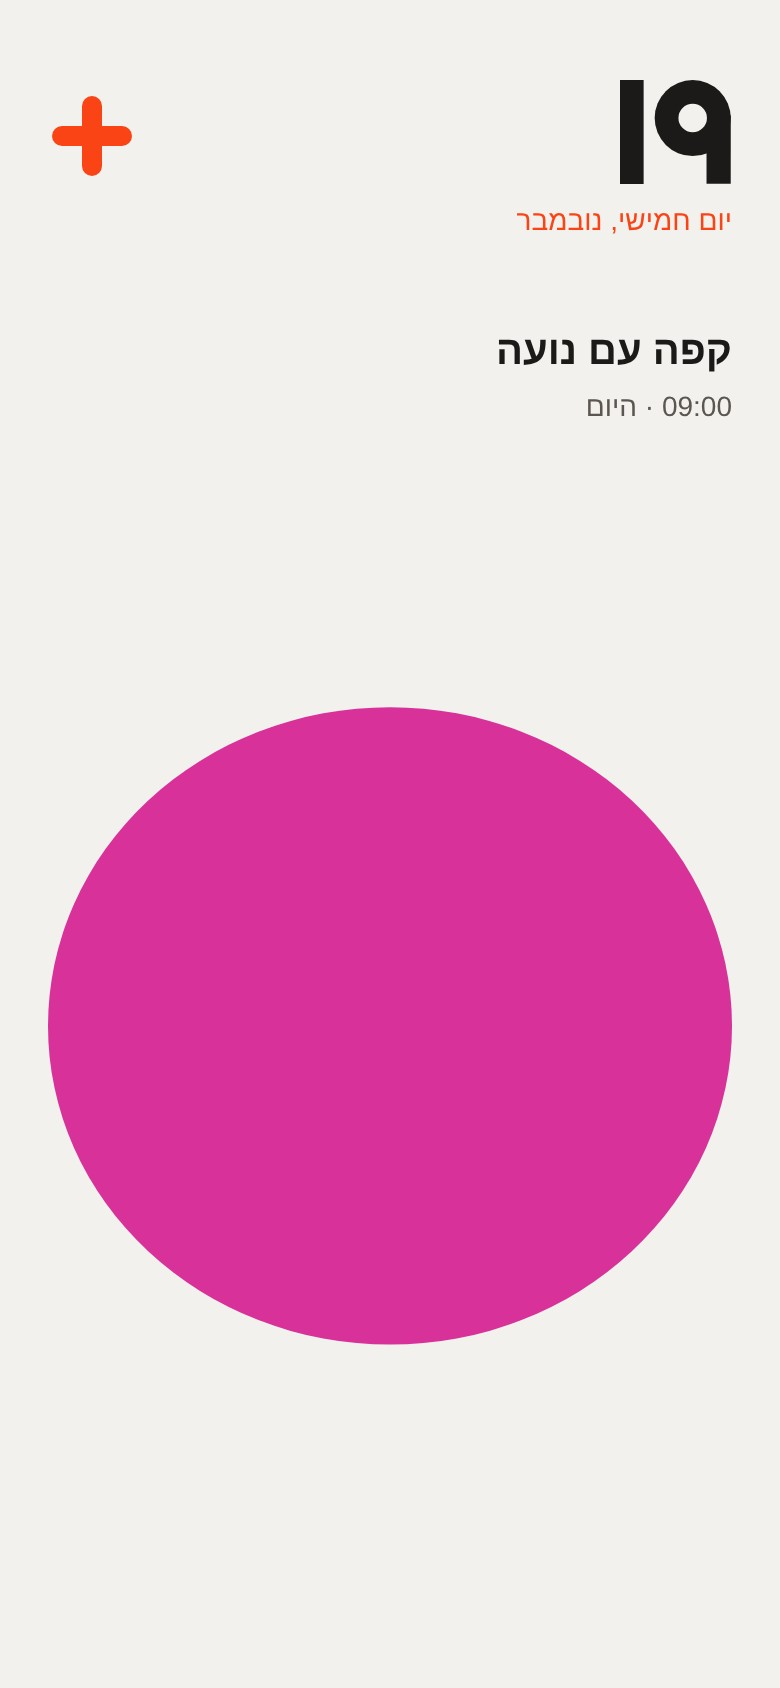
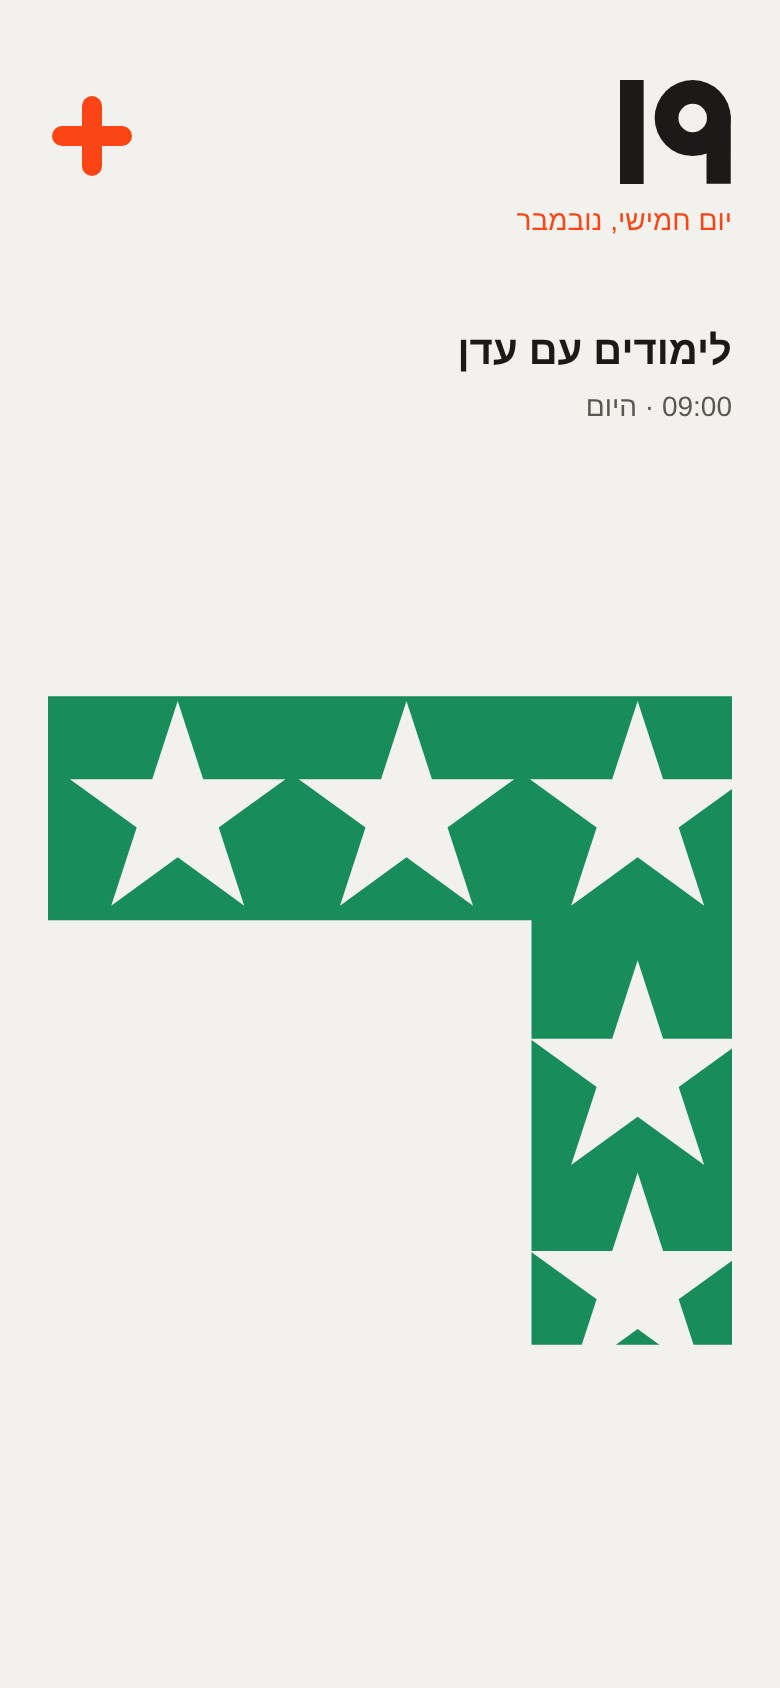
Landing: poster fills on scroll then FORM Club card, minimal hero, clear teaser controls, uncropped screens with several months, three hanging posters
Claude-Session: https://claude.ai/code/session_01QdzEEqAdDpQnYavPUwSomg

diff --git a/landing/index.html b/landing/index.html
@@ -26,16 +26,25 @@ nav .wrap{display:flex;align-items:center;justify-content:space-between;height:1
 .btn:hover{transform:translateY(-1px)}.btn:active{transform:scale(.97)}
 .btn.or{background:var(--orange)}.btn.ghost{background:transparent;color:var(--ink);box-shadow:inset 0 0 0 1.5px var(--ink)}
 .btn.sm{height:40px;padding:0 20px;font-size:14px}
-/* hero */
-.hero{height:calc(100vh - var(--nav));min-height:640px;max-height:1000px}
-.hero .wrap{height:100%;display:grid;grid-template-columns:minmax(0,1fr) auto;gap:72px;align-items:center}
-.kicker{color:var(--orange);font-size:18px;font-weight:700;margin:0 0 20px}
+/* hero = poster that fills while scrolling */
+.fill{height:340vh;position:relative}
+.stick{position:sticky;top:var(--nav);height:calc(100vh - var(--nav));min-height:620px}
+.stick .wrap{height:100%;display:grid;grid-template-columns:minmax(0,1fr) auto;gap:72px;align-items:center}
+.slot{position:relative;height:250px;margin-top:46px}
+.slot>*{position:absolute;right:0;top:0;transition:opacity .45s,transform .55s cubic-bezier(.2,.8,.2,1)}
+.slot .off{opacity:0;transform:translateY(18px);pointer-events:none}
+.cue{position:absolute;left:50%;bottom:-44px;transform:translateX(-50%);display:flex;align-items:center;gap:8px;color:var(--muted);font-size:15px;white-space:nowrap;transition:opacity .3s}
+.cue i{display:block;width:2px;height:22px;background:var(--muted);border-radius:1px;animation:cue 1.6s ease-in-out infinite}
+@keyframes cue{0%,100%{transform:translateY(-4px);opacity:.4}50%{transform:translateY(4px);opacity:1}}
+.cc{background:var(--ink);color:var(--paper);border-radius:26px;padding:28px 32px;width:min(520px,100%);display:grid;gap:10px;box-shadow:0 30px 60px -30px rgba(28,26,24,.6)}
+.cc .lg{display:flex;align-items:center;gap:12px;font-size:34px;font-weight:700}
+.cc .lg .logo{width:120px}
+.cc p{margin:0;color:#CFCAC0;font-size:18px;line-height:1.5}
+.cc .row{display:flex;align-items:center;justify-content:space-between;margin-top:10px}
+.cc .pr{display:flex;align-items:flex-end;gap:8px}.cc .pr .n svg{height:44px;width:auto}.cc .pr span{font-size:17px;padding-bottom:4px}
+.kicker{display:inline-block;color:var(--orange);font-size:20px;font-weight:700;margin:0 0 22px;text-decoration:none}
 h1{font-size:clamp(64px,6.6vw,104px);line-height:.98;margin:0;font-weight:700;letter-spacing:-.02em}
-.welcome{margin:30px 0 34px;font-size:21px;line-height:1.5}
-.welcome b{display:block}
-.welcome span{color:var(--muted)}
-.ctas{display:flex;gap:12px}
-.tick{margin-top:44px;display:flex;align-items:center;gap:18px;height:84px;padding:0 22px 0 26px;border-radius:20px;background:#fff8;box-shadow:inset 0 0 0 1.5px var(--line);width:max-content;min-width:420px}
+.tick{display:flex;align-items:center;gap:18px;height:84px;padding:0 22px 0 26px;border-radius:20px;background:#fff8;box-shadow:inset 0 0 0 1.5px var(--line);width:max-content;min-width:420px}
 .tick .pc{width:52px;height:52px;display:flex;align-items:center;justify-content:center}
 .tick .pc img{max-width:52px;max-height:52px}
 .tick .d{display:flex;align-items:flex-end;gap:8px;direction:rtl}
@@ -43,13 +52,11 @@ h1{font-size:clamp(64px,6.6vw,104px);line-height:.98;margin:0;font-weight:700;le
 .tick .d small{font-size:15px;color:var(--muted);padding-bottom:3px}
 .tick .t{font-size:18px;font-weight:700;min-width:150px}
 .tick .bar{width:3px;align-self:stretch;margin:18px 0;background:var(--line);border-radius:2px}
-.replay{border:0;background:none;color:var(--muted);font-size:14px;cursor:pointer;padding:6px 0;margin-top:10px;display:none}
-.replay.on{display:block}
-.pwrap{position:relative;height:min(calc(100vh - var(--nav) - 80px),860px);aspect-ratio:842/1191}
+.pwrap{position:relative;height:min(calc(100vh - var(--nav) - 150px),820px);aspect-ratio:842/1191;margin-top:-24px}
 .poster{position:absolute;inset:0;background:var(--paper);box-shadow:0 40px 80px -30px rgba(28,26,24,.35),0 0 0 1px rgba(28,26,24,.06)}
 .poster>img{position:absolute;display:block}
 .poster .txt{inset:0;width:100%;height:100%}
-.poster .pz{opacity:0;transform:scale(.55);transition:opacity .3s,transform .5s cubic-bezier(.3,1.6,.5,1)}
+.poster .pz{opacity:0;transform:scale(.55);transition:opacity .25s,transform .4s cubic-bezier(.3,1.6,.5,1)}
 .poster .pz.on{opacity:1;transform:none}
 .poster .pz.hl{animation:hl .9s}
 @keyframes hl{0%{filter:drop-shadow(0 0 0 rgba(250,68,22,0))}30%{filter:drop-shadow(0 6px 14px rgba(28,26,24,.35))}100%{filter:drop-shadow(0 0 0 rgba(28,26,24,0))}}
@@ -65,15 +72,20 @@ h1{font-size:clamp(64px,6.6vw,104px);line-height:.98;margin:0;font-weight:700;le
 .teaser{padding:30px 0 10px}
 .tz{position:relative;max-width:1240px;margin:0 auto}
 .tz video{width:100%;display:block;border-radius:24px;background:var(--paper);box-shadow:0 30px 80px rgba(28,26,24,.14)}
-.snd{position:absolute;left:20px;bottom:20px;display:flex;align-items:center;gap:8px;border:0;border-radius:24px;padding:11px 20px;background:var(--ink);color:var(--paper);font:700 15px/1 var(--font);cursor:pointer;opacity:.94}
-.snd.on{background:var(--orange)}
+.tz video{cursor:pointer}
+.vctl{position:absolute;left:20px;bottom:20px;display:flex;gap:10px}
+.vctl button{display:flex;align-items:center;gap:9px;border:0;border-radius:26px;height:50px;padding:0 22px 0 18px;background:var(--ink);color:var(--paper);font:700 16px/1 var(--font);cursor:pointer;box-shadow:0 10px 30px rgba(28,26,24,.25)}
+.vctl button.on{background:var(--orange)}
+.vctl svg{width:22px;height:22px}
+.bigplay{position:absolute;left:50%;top:50%;width:110px;height:110px;margin:-55px 0 0 -55px;border-radius:50%;border:0;background:var(--orange);color:#fff;cursor:pointer;display:none;align-items:center;justify-content:center;box-shadow:0 20px 50px rgba(250,68,22,.4)}
+.bigplay.on{display:flex}.bigplay svg{width:44px;height:44px;margin-left:6px}
 /* screens */
 .screens{padding:40px 0 30px}
 h2{font-size:56px;margin:0 0 40px;line-height:1.05;letter-spacing:-.01em}
 .row4{display:grid;grid-template-columns:repeat(4,1fr);gap:40px;justify-items:center}
-.ph{width:min(100%,260px);aspect-ratio:390/844;border-radius:40px;background:var(--ink);padding:10px;box-shadow:0 30px 60px -30px rgba(28,26,24,.45)}
-.ph div{width:100%;height:100%;border-radius:31px;overflow:hidden;background:var(--paper)}
-.ph img{width:100%;height:100%;display:block;object-fit:cover}
+.ph{width:min(100%,262px);border-radius:42px;background:var(--ink);padding:11px;box-shadow:0 30px 60px -30px rgba(28,26,24,.45)}
+.ph div{width:100%;aspect-ratio:390/844;border-radius:32px;overflow:hidden;background:var(--paper)}
+.ph img{width:100%;height:100%;display:block}
 figure{margin:0;text-align:center}
 figcaption{margin-top:20px;font-size:22px;font-weight:700}
 .reveal{opacity:0;transform:translateY(30px);transition:opacity .8s,transform .8s cubic-bezier(.2,.8,.2,1)}
@@ -87,8 +99,8 @@ figcaption{margin-top:20px;font-size:22px;font-weight:700}
 .price .n svg{height:110px;width:auto}
 .price span{font-size:22px;padding-bottom:12px}
 .club p{color:#BDB8AE;font-size:19px;line-height:1.55;margin:0;max-width:640px}
-.wall{display:flex;gap:34px;margin-top:40px;align-items:flex-start}
-.hang{position:relative;width:150px;padding:9px 0}
+.wall{display:flex;gap:32px;margin-top:56px;align-items:flex-start}
+.hang{position:relative;width:176px;padding:9px 0}
 .hang img{width:100%;display:block;box-shadow:0 18px 30px -16px rgba(0,0,0,.6)}
 .hang .rod{position:absolute;left:-9px;right:-9px;height:9px;border-radius:5px;background:linear-gradient(var(--wood),var(--wood2));opacity:0;transform:scaleX(.6);transition:opacity .35s,transform .45s cubic-bezier(.3,1.5,.5,1)}
 .hang .rod.t{top:2px}.hang .rod.b{bottom:2px}
@@ -135,25 +147,27 @@ footer .logo{width:96px}
 <body>
 <nav><div class="wrap"><a href="#top" aria-label="FORM"><span class="logo" id="navlogo"></span></a>
  <div class="links"><a href="#teaser">טיזר</a><a href="#screens">האפליקציה</a><a href="#club">FORM Club</a></div>
- <button class="btn sm" data-app>לאפליקציה</button></div></nav>
+ <button class="btn or sm" data-app>לפתוח את האפליקציה</button></div></nav>
 
-<header class="hero" id="top"><div class="wrap">
+<section class="fill" id="top"><div class="stick"><div class="wrap">
  <div>
-  <p class="kicker">יומן בהשראת ברברה סטאופכר סולומון</p>
+  <span class="kicker">יומן בהשראת ברברה סטאופכר סולומון</span>
   <h1>תני צורה<br>ליום שלך</h1>
-  <p class="welcome"><b>ברוכה הבאה ל־FORM Club.</b><span>כל משימה ביומן נהיית צורה בפוסטר של החודש.</span></p>
-  <div class="ctas"><button class="btn or" data-app>לפתוח את האפליקציה</button><a class="btn ghost" href="#club">להירשם לשנה</a></div>
-  <div class="tick" id="tick"><span class="pc" id="tPc"></span><span class="d"><span class="n" id="tN"></span><small>בדצמבר</small></span><i class="bar"></i><span class="t" id="tT"></span></div>
-  <button class="replay" id="replay">↻ למלא את הפוסטר שוב</button>
+  <div class="slot">
+   <div><div class="tick off" id="tick"><span class="pc" id="tPc"></span><span class="d"><span class="n" id="tN"></span><small>בדצמבר</small></span><i class="bar"></i><span class="t" id="tT"></span></div></div>
+   <div class="cc off" id="cc"><div class="lg">FORM Club</div><p>הפוסטר הזה נבנה מהיומן של דצמבר.<br>בכל סוף חודש הפוסטר שלך מודפס ומגיע אלייך הביתה.</p>
+    <div class="row"><div class="pr"><span class="n" id="ccNum"></span><span>₪ לשנה</span></div><a class="btn or" href="#club">להצטרף ל־FORM Club</a></div></div>
+  </div>
  </div>
- <div class="pwrap"><span class="tag">הפוסטר שלך · דצמבר</span><div class="poster" id="poster"></div></div>
-</div></header>
+ <div class="pwrap"><span class="tag">הפוסטר שלך · דצמבר</span><div class="poster" id="poster"></div><div class="cue" id="cue"><i></i>גללי למטה והפוסטר יתמלא</div></div>
+</div></div></section>
 
 <div class="strip" id="s1"></div>
 
 <section class="teaser" id="teaser"><div class="wrap">
  <div class="tz"><video src="teaser.mp4" poster="teaser.jpg" autoplay muted loop playsinline preload="auto"></video>
- <button class="snd" aria-label="להפעיל סאונד"><svg width="22" height="22" viewBox="0 0 24 24"><path d="M3 9h4l5-4v14l-5-4H3z" fill="currentColor"/><path d="M16 8.5a5 5 0 0 1 0 7M18.5 6a8.5 8.5 0 0 1 0 12" fill="none" stroke="currentColor" stroke-width="2" stroke-linecap="round"/></svg><span>עם סאונד</span></button></div>
+ <button class="bigplay" id="bp" aria-label="הפעלה"><svg viewBox="0 0 24 24"><path d="M6 4l15 8-15 8z" fill="currentColor"/></svg></button>
+ <div class="vctl"><button id="vp"><svg viewBox="0 0 24 24" id="vpi"></svg><span></span></button><button id="vs"><svg viewBox="0 0 24 24" id="vsi"></svg><span></span></button></div></div>
 </div></section>
 
 <section class="screens" id="screens"><div class="wrap">
@@ -173,8 +187,9 @@ footer .logo{width:96px}
   <div class="price"><span class="n" id="priceNum"></span><span>₪ לשנה</span></div>
   <p>12 פוסטרים בשנה, אחד בסוף כל חודש, מודפסים ב־A3 ונשלחים עד הבית.</p>
   <div class="wall" id="wall">
-   <div class="hang"><svg viewBox="0 0 100 40" preserveAspectRatio="none"><path d="M3 40L50 3L97 40" fill="none" stroke="#B4875A" stroke-width="2"/></svg><i class="rod t"></i><img src="img/poster_nov.jpg" alt="פוסטר נובמבר"><i class="rod b"></i></div>
-   <div class="hang"><svg viewBox="0 0 100 40" preserveAspectRatio="none"><path d="M3 40L50 3L97 40" fill="none" stroke="#B4875A" stroke-width="2"/></svg><i class="rod t"></i><img src="img/poster_dec.jpg" alt="פוסטר דצמבר"><i class="rod b"></i></div>
+   <div class="hang"><svg viewBox="0 0 100 40" preserveAspectRatio="none"><path d="M3 40L50 3L97 40" fill="none" stroke="#B4875A" stroke-width="2"/></svg><i class="rod t"></i><img src="img/poster_p1.jpg" alt="פוסטר דצמבר"><i class="rod b"></i></div>
+   <div class="hang"><svg viewBox="0 0 100 40" preserveAspectRatio="none"><path d="M3 40L50 3L97 40" fill="none" stroke="#B4875A" stroke-width="2"/></svg><i class="rod t"></i><img src="img/poster_p2.jpg" alt="פוסטר נובמבר"><i class="rod b"></i></div>
+   <div class="hang"><svg viewBox="0 0 100 40" preserveAspectRatio="none"><path d="M3 40L50 3L97 40" fill="none" stroke="#B4875A" stroke-width="2"/></svg><i class="rod t"></i><img src="img/poster_p3.jpg" alt="פוסטר ינואר"><i class="rod b"></i></div>
   </div>
  </div>
  <form class="form" id="form" novalidate>
@@ -211,18 +226,26 @@ const TASKS=['ריצה בבוקר','קפה עם נועה','הגשה בטיפוג
 const P=$('#poster');
 P.innerHTML='<img class="txt" src="img/poster_b_text.png" alt="">'+PIECES.map((p,i)=>`<img class="pz" data-i="${i}" src="img/${p.f.replace('pieces/','pieces/')}" style="left:${p.x}%;top:${p.y}%;width:${p.w}%;height:${p.h}%" alt="">`).join('');
 const ord=PIECES.map((p,i)=>i).sort((a,b)=>PIECES[a].r-PIECES[b].r||PIECES[b].c-PIECES[a].c);
-const pz=$$('#poster .pz');let timer=null;
-function fill(){clearTimeout(timer);pz.forEach(e=>e.classList.remove('on','hl'));$('#replay').classList.remove('on');let k=0;
- const step=()=>{if(k>=ord.length){$('#tN').innerHTML=num(31);$('#tT').textContent='הפוסטר מוכן';$('#tPc').innerHTML='';$('#replay').classList.add('on');return;}
-  const i=ord[k];const day=Math.floor(k*31/ord.length)+1;const e=pz[i];e.classList.add('on','hl');
-  $('#tN').innerHTML=num(day);$('#tT').textContent=TASKS[day-1];$('#tPc').innerHTML=`<img src="${e.getAttribute('src')}" alt="">`;
-  k++;timer=setTimeout(step,k<4?520:260);};
- timer=setTimeout(step,700);}
-$('#tN').innerHTML=num(1);$('#tT').textContent='';
-addEventListener('load',fill);$('#replay').onclick=fill;
+const pz=$$('#poster .pz');const FS=$('#top');let shown=-1;$('#ccNum').innerHTML=num(100,'#F2F1EE');
+function fillScroll(){const r=FS.getBoundingClientRect();const p=Math.min(1,Math.max(0,-r.top/(r.height-innerHeight)));
+ const n=Math.min(ord.length,Math.floor(p/0.8*ord.length+0.0001));
+ if(n!==shown){ord.forEach((i,k)=>{pz[i].classList.toggle('on',k<n);});
+  if(n>shown&&n>0){const e=pz[ord[n-1]];e.classList.remove('hl');void e.offsetWidth;e.classList.add('hl');}
+  shown=n;const day=n?Math.floor((n-1)*31/ord.length)+1:1;
+  if(n>0){$('#tN').innerHTML=num(day);$('#tT').textContent=TASKS[day-1];$('#tPc').innerHTML=`<img src="${pz[ord[n-1]].getAttribute('src')}" alt="">`;}}
+ const done=n>=ord.length&&p>0.86;$('#tick').classList.toggle('off',n===0||done);$('#cc').classList.toggle('off',!done);$('#cue').style.opacity=p>0.03?0:1;}
+addEventListener('scroll',()=>requestAnimationFrame(fillScroll),{passive:true});fillScroll();
 // teaser sound
-(()=>{const b=$('.snd'),v=$('.tz video'),lab=b.querySelector('span');v.play&&v.play().catch(()=>{});
- b.onclick=()=>{if(v.muted){v.muted=false;v.currentTime=0;v.play();b.classList.add('on');lab.textContent='בלי סאונד';}else{v.muted=true;b.classList.remove('on');lab.textContent='עם סאונד';}};})();
+(()=>{const v=$('.tz video'),vp=$('#vp'),vs=$('#vs'),bp=$('#bp');
+ const IC={pause:'<path d="M6 4h4v16H6zM14 4h4v16h-4z" fill="currentColor"/>',play:'<path d="M6 4l15 8-15 8z" fill="currentColor"/>',
+  off:'<path d="M3 9h4l5-4v14l-5-4H3z" fill="currentColor"/><path d="M16 9l5 6M21 9l-5 6" stroke="currentColor" stroke-width="2" stroke-linecap="round"/>',
+  on:'<path d="M3 9h4l5-4v14l-5-4H3z" fill="currentColor"/><path d="M16 8.5a5 5 0 0 1 0 7M18.5 6a8.5 8.5 0 0 1 0 12" fill="none" stroke="currentColor" stroke-width="2" stroke-linecap="round"/>'};
+ const ui=()=>{const pl=!v.paused;vp.querySelector('svg').innerHTML=pl?IC.pause:IC.play;vp.querySelector('span').textContent=pl?'עצירה':'הפעלה';
+  vs.querySelector('svg').innerHTML=v.muted?IC.off:IC.on;vs.querySelector('span').textContent=v.muted?'להפעיל סאונד':'להשתיק';vs.classList.toggle('on',!v.muted);bp.classList.toggle('on',!pl);};
+ const toggle=()=>{v.paused?v.play():v.pause();};
+ vp.onclick=toggle;v.onclick=toggle;bp.onclick=()=>v.play();
+ vs.onclick=()=>{if(v.muted){v.muted=false;v.currentTime=0;v.play();}else v.muted=true;ui();};
+ ['play','pause','volumechange'].forEach(ev=>v.addEventListener(ev,ui));v.play&&v.play().catch(()=>{});ui();})();
 // reveal
 const io=new IntersectionObserver(es=>es.forEach(e=>{if(e.isIntersecting){e.target.classList.add('in');io.unobserve(e.target)}}),{threshold:.15});$$('.reveal').forEach(e=>io.observe(e));
 // app modal
